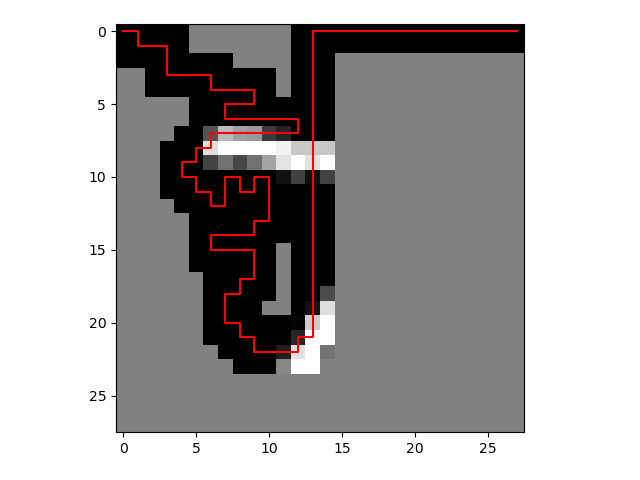
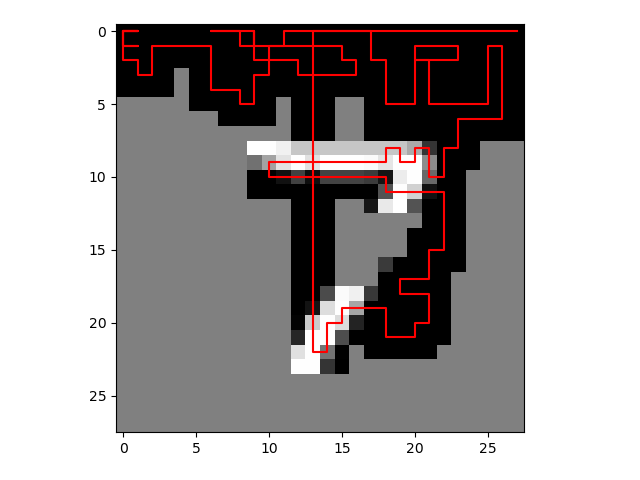
implement epsilon-greedy

Changed region(s): [[0.1562, 0.0312, 0.8438, 0.7812]]

diff --git a/HW2/GameFiles/main_epsilon_greedy.py b/HW2/GameFiles/main_epsilon_greedy.py
@@ -1,0 +1,97 @@
+"""
+Authors: Masafumi Endo
+Date: 02/13/2021
+Version: 2.0
+Objective: main function to run epsilon-greedy navigator
+"""
+
+import gzip
+import numpy as np
+import matplotlib.pyplot as plt
+from PIL import Image
+from RobotClass import Robot
+from EpsilonGreedyGameClass import EpsilonGreedyGame
+from GreedyNavigator import GreedyNavigator
+from networkFolder.functionList import Map, WorldEstimatingNetwork, DigitClassificationNetwork
+
+def run_greedy(map, epsilon, decay, specified_prob):
+
+    # get map
+    data = map.map
+    # init robot and navigator
+    robot = Robot(0, 0)
+    path_x = np.array(robot.xLoc)
+    path_y = np.array(robot.yLoc)
+    navigator = GreedyNavigator()
+    # init game class w/ user-specified probability
+    game = EpsilonGreedyGame(data, map.number, navigator, robot, epsilon, decay, specified_prob)
+    # init networks
+    uNet = WorldEstimatingNetwork()
+    classNet = DigitClassificationNetwork()
+
+    # print the number of the current map
+    print(map.number)
+
+    # run game until the robot found the goal
+    while True:
+        found_goal = game.tick()
+        print(" ")
+        print(f"after one iteration of the game -> {game.getIteration()}: Robot at: ({robot.xLoc}, {robot.yLoc}), Score = {game.getScore()}")
+        # add path
+        path_x = np.append(path_x, robot.xLoc)
+        path_y = np.append(path_y, robot.yLoc)
+        if found_goal:
+            print(f"Found goal at time step: {game.getIteration()}!")
+            print(f"Number of stucked: {game.num_stuck}")
+            break
+    print(f"Final Score: {game.score}")
+
+    # create mask
+    mask = np.zeros((28, 28))
+    for x in range(0, 28):
+        for y in range(0, 28):
+            if game.exploredMap[y, x] != 128:
+                mask[y, x] = 1
+
+    # estimate what the world looks like
+    image = uNet.runNetwork(game.exploredMap, mask)
+    # estimate what "world" we are in
+    char = classNet.runNetwork(image)
+    # get the most likely digit
+    print(char.argmax())
+
+    # show ground truth, explored, and predicted map
+    # ground truth
+    fig, ax = plt.subplots()
+    ax.imshow(game.truthMap, cmap='gray')
+    plt.subplots_adjust(left=0.05, right=0.95, bottom=0.1, top=0.95)
+    plt.savefig('../fig/map_gt_' + str(map.number) + '_greedy.png')
+    plt.show()
+    # explored w/ a robot's trajectory
+    fig, ax = plt.subplots()
+    ax.plot(path_x, path_y, color='red')
+    ax.imshow(game.exploredMap, cmap='gray')
+    plt.subplots_adjust(left=0.05, right=0.95, bottom=0.1, top=0.95)
+    plt.savefig('../fig/map_explore_' + str(map.number) + '_greedy.png')
+    plt.show()
+    # predicted
+    fig, ax = plt.subplots()
+    ax.imshow(image, cmap='gray')
+    plt.subplots_adjust(left=0.05, right=0.95, bottom=0.1, top=0.95)
+    plt.savefig('../fig/map_pred_' + str(map.number) + '_greedy.png')
+    plt.show()
+
+if __name__ == '__main__':
+    # init map and prob
+    map = Map()
+    epsilon = 1
+    decay = 1/15
+    specified_prob = 0.95
+
+    # run exploration
+    run_greedy(map, epsilon, decay, specified_prob)
+
+    # run exploration
+    map.getNewMap()
+    map.getNewMap()
+    run_greedy(map, epsilon, decay, specified_prob)

diff --git a/HW2/GameFiles/EpsilonGreedyGameClass.py b/HW2/GameFiles/EpsilonGreedyGameClass.py
@@ -1,0 +1,73 @@
+"""
+Authors: Masafumi Endo
+Date: 02/03/2021
+Version: 1.0
+Objective: Modify "GameClass" from the original class
+"""
+
+import numpy as np
+import torch
+from GameClass import Game
+from networkFolder.functionList import WorldEstimatingNetwork, DigitClassificationNetwork
+
+
+class EpsilonGreedyGame(Game):
+    def __init__(self, truthMap, digit, navigator, robot, epsilon, decay, specified_prob):
+        super().__init__(truthMap, digit, navigator, robot)
+
+        self.specified_prob = specified_prob
+        self.flag_greedy = True
+        self.uNet = WorldEstimatingNetwork()
+        self.classNet = DigitClassificationNetwork()
+        self.softmax = torch.nn.Softmax(dim=1)
+        self.num_stuck = 0
+        self.epsilon = epsilon
+        self.decay = decay
+
+    def tick(self):
+        self.epsilon = self.epsilon * np.exp(- self.decay * self.iterations)
+        self.iterations += 1
+        # Generate an action for the robot
+        if self.flag_greedy:
+            # decayed epsilon-greedy
+            if self.epsilon > np.random.rand(1):
+                action = self.navigator.getActionRandom(self.robot)
+            else:
+                action, flag_stuck = self.navigator.getActionGreedy(self.robot, self.exploredMap)
+                if flag_stuck:
+                    self.num_stuck += 1
+        else:
+            action = self.navigator.getActionShortest(self.robot, self._goal)
+        # Move the robot
+        self.robot.move(action)
+        # Update the explored map based on robot position
+        self._updateMap(self.robot, self.exploredMap, self.truthMap)
+
+        # creates an estimate of what the world looks like after moving
+        mask = np.zeros((28, 28))
+        for x in range(0, 28):
+            for y in range(0, 28):
+                if self.exploredMap[y, x] != 128:
+                    mask[y, x] = 1
+        image = self.uNet.runNetwork(self.exploredMap, mask)
+        # creates an estimate of what world we are in
+        char = self.classNet.runNetwork(image)
+        estimated_digit = char.argmax()
+
+        # calculate probability to check condition
+        char_tensor = torch.from_numpy(char).clone()
+        prob_tensor = self.softmax(char_tensor)
+        prob = prob_tensor.numpy()
+        prob_max = prob[0][estimated_digit]
+
+        # check condition to end up greedy exploration
+        if estimated_digit == self._digit and prob_max >= self.specified_prob:
+            # end greedy exploration
+            self.flag_greedy = False
+
+        if self.robot.getLoc() == self._goal:
+            self.score += 100
+            return True
+        else:
+            self.score -= 1
+            return False
